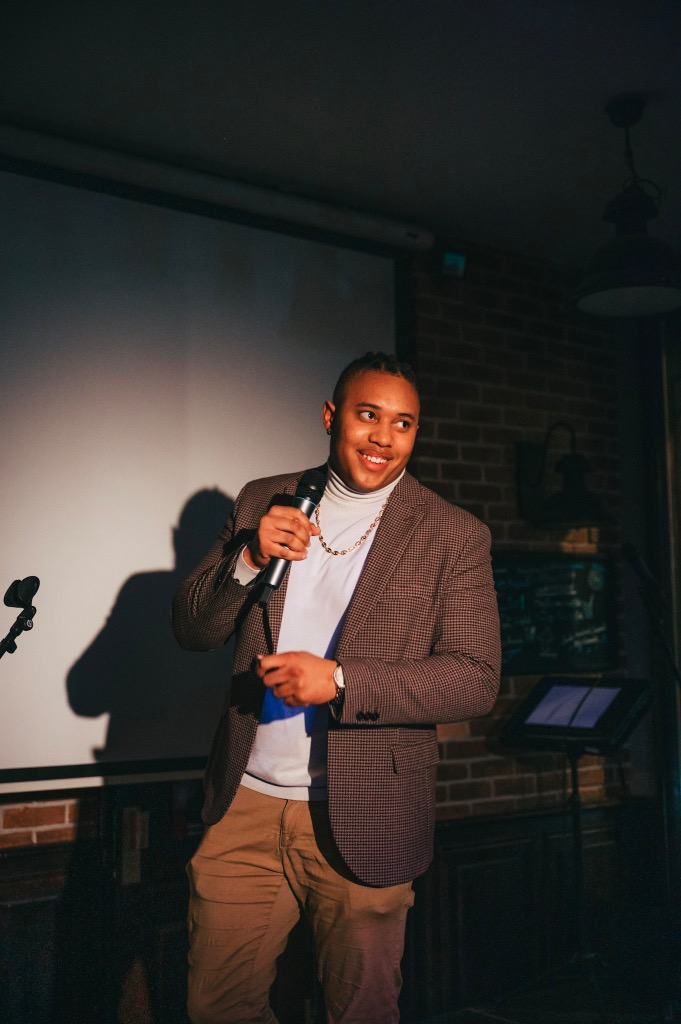
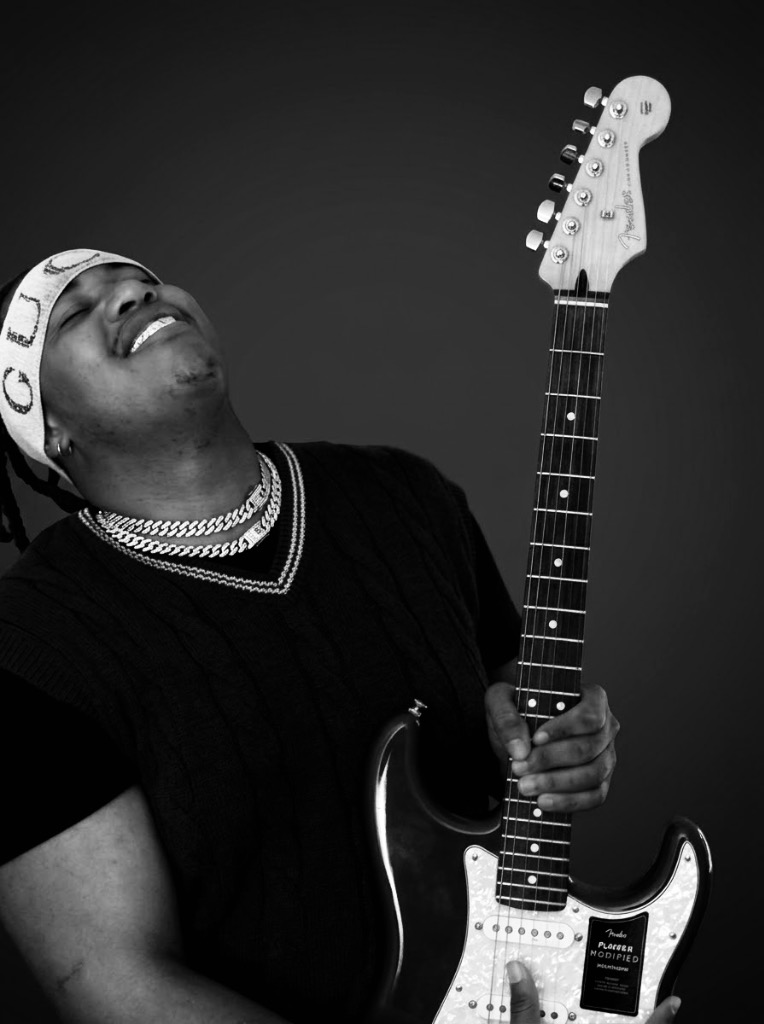
feat: Add iconic Fender Stratocaster portrait & streamline parent-friendly copy

diff --git a/index.html b/index.html
@@ -266,7 +266,7 @@
                 </a>
                 <a href="#candidature" class="px-6 py-4 rounded-xl font-bold font-mono text-sm bg-zinc-800/90 hover:bg-zinc-700 text-zinc-200 border border-zinc-700 transition-all flex items-center justify-center gap-2 text-center">
                   <svg class="w-4 h-4 stroke-current fill-none text-brand-orange" stroke-width="2" viewBox="0 0 24 24"><path stroke-linecap="round" stroke-linejoin="round" d="M9 12h6m-6 4h6m2 5H7a2 2 0 01-2-2V5a2 2 0 012-2h5.586a1 1 0 01.707.293l5.414 5.414a1 1 0 01.293.707V19a2 2 0 01-2 2z"/></svg>
-                  <span>Préparer mon dossier en ligne</span>
+                  <span>Réserver un essai gratuit</span>
                 </a>
               </div>
               <div class="p-3.5 rounded-xl bg-amber-500/15 border border-amber-500/30 text-xs font-mono text-amber-200 flex items-start gap-2.5">
@@ -275,23 +275,23 @@
               </div>
             </div>
 
-            <!-- LIGNE TECHNIQUE D'AUTORITÉ (ÉPURÉE, FAÇON HARDWARE STUDIO) -->
+            <!-- LIGNE DE RÉASSURANCE POUR LES PARENTS -->
             <div class="grid grid-cols-2 sm:grid-cols-4 gap-4 pt-6 border-t border-zinc-800 text-xs font-mono">
               <div class="border-l-2 border-brand-magenta pl-3">
                 <span class="text-white font-black block text-base">14 ANS</span>
-                <span class="text-zinc-400 text-[11px] block">DÉVOTION & GUITARE</span>
+                <span class="text-zinc-400 text-[11px] block">D'EXPÉRIENCE GUITARE</span>
               </div>
               <div class="border-l-2 border-brand-orange pl-3">
-                <span class="text-white font-black block text-base">NASHVILLE</span>
-                <span class="text-zinc-400 text-[11px] block">PRODS VENDUES USA</span>
+                <span class="text-white font-black block text-base">STUDIO PRO</span>
+                <span class="text-zinc-400 text-[11px] block">PROD & EXPÉRIENCE USA</span>
               </div>
               <div class="border-l-2 border-brand-cyan pl-3">
                 <span class="text-white font-black block text-base">SPOTIFY</span>
-                <span class="text-zinc-400 text-[11px] block">SORTIE TRIMESTRIELLE</span>
+                <span class="text-zinc-400 text-[11px] block">1 TITRE / TRIMESTRE</span>
               </div>
               <div class="border-l-2 border-brand-purple pl-3">
                 <span class="text-white font-black block text-base">12 PLACES</span>
-                <span class="text-zinc-400 text-[11px] block">MAX / TRIMESTRE</span>
+                <span class="text-zinc-400 text-[11px] block">MAX PAR TRIMESTRE</span>
               </div>
             </div>
           </div>
@@ -300,19 +300,19 @@
           <div class="lg:col-span-5">
             <div class="glass-card p-6 rounded-3xl border border-zinc-700 bg-brand-surface relative shadow-2xl">
               
-              <!-- Bandeau DAW Supérieur -->
+              <!-- Bandeau Supérieur -->
               <div class="flex items-center justify-between border-b border-zinc-800 pb-3 mb-4 text-xs font-mono">
                 <div class="flex items-center gap-2">
                   <span class="w-2.5 h-2.5 rounded-full bg-emerald-400 animate-pulse"></span>
                   <span class="text-zinc-200 font-bold uppercase tracking-wider">Studio Pompignane</span>
                 </div>
-                <span class="text-brand-magenta font-bold">● REC LIVE 24-bit</span>
+                <span class="text-brand-magenta font-bold">● Inscriptions ouvertes</span>
               </div>
 
               <!-- Cadre Média / Artiste Studio Alexandre Herbin -->
               <div class="aspect-[4/5] sm:aspect-[3/4] rounded-2xl bg-zinc-950 border border-zinc-700/80 flex flex-col justify-between relative overflow-hidden group shadow-2xl">
                 
-                <!-- Vraie Photo Alexandre Herbin avec Guitare Fender en Studio -->
+                <!-- Vraie Photo Alexandre Herbin -->
                 <img src="assets/alexandre.jpg" alt="Alexandre Herbin - Professeur de Guitare et Producteur au studio de la Pompignane" class="w-full h-full object-cover object-top absolute inset-0 z-0 transition-transform duration-700 group-hover:scale-105">
 
                 <!-- Gradient Scrim subtil haut et bas pour lisibilité maximale sans cacher le visage ou la guitare -->
@@ -322,7 +322,7 @@
                 <div class="flex justify-between items-start z-20 p-4">
                   <span class="px-3 py-1.5 rounded-full bg-black/80 backdrop-blur-md border border-white/20 text-xs font-mono text-white font-bold flex items-center gap-2 shadow-lg">
                     <span class="w-2 h-2 rounded-full bg-emerald-400 animate-pulse"></span>
-                    Alexandre Herbin (Alex)
+                    Alexandre Herbin
                   </span>
                   <span class="px-3 py-1.5 rounded-full bg-brand-magenta/90 text-white border border-brand-magenta text-xs font-mono font-bold shadow-lg">
                     Un passionné avant tout
@@ -333,13 +333,13 @@
                 <div class="z-20 p-4 space-y-3">
                   <div>
                     <span class="text-xs font-mono font-bold text-brand-orange uppercase tracking-wider block">
-                      Directeur Musical & Studio
+                      Fondateur & Pédagogue
                     </span>
                     <h3 class="font-display font-black text-2xl text-white">
                       Alexandre Herbin
                     </h3>
                     <p class="text-xs text-zinc-300 font-mono">
-                      Guitariste • Beatmaker international • Quartier Pompignane
+                      Guitariste • Producteur de musique • Montpellier
                     </p>
                   </div>
 
@@ -347,7 +347,7 @@
                   <div class="flex items-center justify-between bg-black/80 backdrop-blur-md rounded-xl p-2.5 border border-zinc-700 text-xs font-mono">
                     <span class="text-zinc-200 flex items-center gap-2">
                       <svg class="w-3.5 h-3.5 fill-current text-brand-magenta shrink-0" viewBox="0 0 24 24"><path d="M8 5v14l11-7z"/></svg>
-                      <span>Beat Nashville 808</span>
+                      <span>Production d'Alexandre</span>
                     </span>
                     <a href="https://youtu.be/925-MVwqzmA?list=RD925-MVwqzmA" target="_blank" rel="noopener noreferrer" class="text-brand-cyan hover:underline font-bold text-[11px]">
                       Écouter sur YouTube &rarr;
@@ -647,13 +647,13 @@
       <div class="max-w-6xl mx-auto px-4 sm:px-6">
         <div class="text-center max-w-2xl mx-auto mb-14">
           <span class="text-xs font-mono font-bold uppercase tracking-wider text-brand-orange block mb-2">
-            La Preuve par les Oreilles
+            La Preuve par le Son
           </span>
           <h2 class="font-display font-extrabold text-3xl sm:text-5xl text-white tracking-tight">
-            Entendez la différence en direct.
+            Entendez la différence.
           </h2>
           <p class="text-zinc-300 text-sm sm:text-base mt-4">
-            Un enregistrement au smartphone n'a rien à voir avec un titre mixé et spatialisé au studio. Comparez les deux modes instantanément :
+            Voici ce qu'un élève enregistre seul sur son smartphone... et ce qu'on arrive à créer ensemble une fois passé en studio :
           </p>
         </div>
 
@@ -663,17 +663,17 @@
             <div class="flex items-center gap-2 w-full sm:w-auto">
               <button id="mode-smartphone-btn" class="flex-1 sm:flex-none px-4 py-2.5 rounded-xl text-xs font-mono uppercase font-semibold transition-all border border-transparent text-zinc-400 hover:text-white flex items-center justify-center gap-1.5">
                 <svg class="w-3.5 h-3.5 stroke-current fill-none" stroke-width="2" viewBox="0 0 24 24"><rect x="5" y="2" width="14" height="20" rx="2" ry="2"/><line x1="12" y1="18" x2="12.01" y2="18"/></svg>
-                <span>Prise Brute (Raw • To The Star)</span>
+                <span>📱 Enregistré au smartphone</span>
               </button>
               <button id="mode-studio-btn" class="flex-1 sm:flex-none px-4 py-2.5 rounded-xl text-xs font-mono uppercase font-semibold transition-all bg-gradient-to-r from-pink-600 to-orange-500 text-white shadow-lg flex items-center justify-center gap-1.5">
                 <svg class="w-3.5 h-3.5 fill-current text-amber-300" viewBox="0 0 24 24"><path d="M12 2l2.4 7.2h7.6l-6.1 4.5 2.3 7.1-6.2-4.5-6.2 4.5 2.3-7.1-6.1-4.5h7.6z"/></svg>
-                <span>Mix Studio Pro (Flying Away • Master)</span>
+                <span>🎧 Version Studio Pro</span>
               </button>
             </div>
             
             <span id="audio-current-mode-badge" class="text-xs px-3 py-1.5 rounded-full bg-gradient-to-r from-pink-500/20 to-orange-500/20 text-pink-300 border border-pink-500/40 font-mono inline-flex items-center gap-1.5">
               <svg class="w-3.5 h-3.5 fill-current text-pink-400" viewBox="0 0 24 24"><path d="M12 2l2.4 7.2h7.6l-6.1 4.5 2.3 7.1-6.2-4.5-6.2 4.5 2.3-7.1-6.1-4.5h7.6z"/></svg>
-              <span><strong>Mix Studio Pro</strong> (Flying Away • Master blvckbeats808)</span>
+              <span><strong>Résultat Studio Pro</strong> (Flying Away • Spotify)</span>
             </span>
           </div>
 
@@ -681,7 +681,7 @@
           <div class="bg-black/60 rounded-2xl p-4 border border-zinc-800/80 mb-4 flex flex-col items-center justify-center relative overflow-hidden">
             <canvas id="audio-visualizer-canvas" width="600" height="120" class="w-full h-28"></canvas>
             <div class="text-[10px] font-mono text-zinc-400 uppercase tracking-widest mt-2">
-              Analyseur de Spectre Fréquentiel en Temps Réel
+              Visualiseur en direct • Touchez un mode pour écouter
             </div>
           </div>
 
@@ -695,7 +695,7 @@
           <div class="mb-5 bg-black/40 p-3 rounded-2xl border border-zinc-800">
             <div class="flex items-center justify-between text-xs font-mono text-zinc-300 mb-1.5 px-1">
               <span id="audio-time-current" class="text-zinc-400">0:00</span>
-              <span id="audio-track-title" class="font-bold text-white truncate max-w-[200px] sm:max-w-xs">Flying Away (Master)</span>
+              <span id="audio-track-title" class="font-bold text-white truncate max-w-[200px] sm:max-w-xs">Flying Away (Version Studio Pro)</span>
               <span id="audio-time-duration" class="text-zinc-400">0:16</span>
             </div>
             <div id="audio-progress-container" class="w-full bg-zinc-800 rounded-full h-2.5 cursor-pointer relative overflow-hidden">
@@ -709,11 +709,11 @@
               <span id="audio-play-icon" class="text-base flex items-center">
                 <svg class="w-3.5 h-3.5 fill-current" viewBox="0 0 24 24"><path d="M8 5v14l11-7z"/></svg>
               </span>
-              <span id="audio-play-text">Écouter le comparatif sonore</span>
+              <span id="audio-play-text">Écouter la différence</span>
             </button>
             <span class="text-xs text-zinc-400 text-center sm:text-right font-light flex items-center justify-center sm:justify-end gap-1.5">
               <svg class="w-4 h-4 stroke-current fill-none text-amber-400 shrink-0" stroke-width="2" viewBox="0 0 24 24"><path stroke-linecap="round" stroke-linejoin="round" d="M9.663 17h4.673M12 3v1m6.364 1.636l-.707.707M21 12h-1M4 12H3m3.343-5.657l-.707-.707m2.828 9.9a5 5 0 117.072 0l-.548.547A3.374 3.374 0 0014 18.469V19a2 2 0 11-4 0v-.531c0-.895-.356-1.754-.988-2.386l-.548-.547z"/></svg>
-              <span>Cliquez sur le lecteur puis basculez entre les modes Smartphone et Studio.</span>
+              <span>Appuyez sur un bouton pour basculer instantanément entre le son smartphone et le son studio.</span>
             </span>
           </div>
         </div>
@@ -781,7 +781,7 @@
             </div>
 
             <a href="#candidature" class="w-full py-4 rounded-xl font-extrabold uppercase tracking-wider text-sm bg-zinc-800 hover:bg-zinc-700 border border-zinc-600 text-white text-center transition-all block shadow-lg">
-              Candidater pour le Studio
+              Réserver un essai au Studio
             </a>
           </div>
 
@@ -865,7 +865,7 @@
             <h2 class="font-display font-black text-3xl sm:text-5xl text-white tracking-tight mb-6">
               Alexandre Herbin <br>
               <span class="bg-gradient-to-r from-brand-orange to-brand-magenta bg-clip-text text-transparent">
-                Musicien Passionné, Guitariste & Beatmaker International.
+                Guitariste, Producteur & Pédagogue Passionné.
               </span>
             </h2>
 
@@ -882,13 +882,13 @@
                 Âgé de <strong class="text-white font-bold">26 ans</strong> et pratiquant la guitare depuis plus de <strong class="text-white font-bold">14 ans</strong>, Alexandre est un véritable passionné de musique vivante. Il refuse les méthodes académiques rigides pour privilégier la connexion émotionnelle avec l'instrument, la musicalité et la maîtrise du son studio.
               </p>
               <p>
-                Son univers musical fait le pont entre les racines vivantes de la guitare et les productions urbaines actuelles : le <strong class="text-amber-400 font-bold">Blues</strong> pour le toucher et l'expressivité, le <strong class="text-red-400 font-bold">Rock</strong> pour l'énergie des riffs, la <strong class="text-pink-400 font-bold">Pop</strong> pour le sens des mélodies accrocheuses, et le <strong class="text-brand-magenta font-bold">Rap</strong>, le <strong class="text-brand-cyan font-bold">Hip-Hop</strong> et le <strong class="text-purple-400 font-bold">R&B</strong> pour la modernité rythmique, les basses 808 et la spatialisation studio.
+                Son univers musical fait le pont entre les racines vivantes de la guitare et les productions modernes : le <strong class="text-amber-400 font-bold">Blues</strong> pour le toucher et l'expressivité, le <strong class="text-red-400 font-bold">Rock</strong> pour l'énergie des riffs, la <strong class="text-pink-400 font-bold">Pop</strong> pour le sens des mélodies accrocheuses, et le <strong class="text-brand-magenta font-bold">Rap</strong>, le <strong class="text-brand-cyan font-bold">Hip-Hop</strong> et le <strong class="text-purple-400 font-bold">R&B</strong> pour la modernité rythmique et les grooves actuels.
               </p>
               <p>
-                Actif sous le pseudonyme de producteur <strong class="text-brand-magenta font-bold">blvckbeats808</strong> et artiste sous le nom de <strong class="text-brand-orange font-bold">Herbo</strong> sur Spotify, ses compositions instrumentales et beats de guitare voyagent et sont vendus à l'international — notamment auprès d'artistes et rappeurs aux <strong class="text-white font-bold">États-Unis (Nashville, Tennessee)</strong> et en Europe.
+                Actif sous le pseudonyme de producteur <strong class="text-brand-magenta font-bold">blvckbeats808</strong> et artiste sous le nom de <strong class="text-brand-orange font-bold">Herbo</strong> sur Spotify, ses compositions instrumentales et beats de guitare voyagent et sont vendus à l'international — notamment auprès d'artistes aux <strong class="text-white font-bold">États-Unis (Nashville, Tennessee)</strong> et en Europe.
               </p>
               <p>
-                Au Labo des Cordes, il supervise personnellement chaque étape pédagogique et prend en charge le mixage studio de chaque élève avec les mêmes convertisseurs, compresseurs et exigences acoustiques que pour ses projets diffusés outre-Atlantique.
+                Au Labo des Cordes, Alexandre accompagne personnellement chaque jeune avec bienveillance et enthousiasme. Il met tout son savoir-faire de musicien et producteur au service de leurs morceaux pour leur offrir un résultat dont ils seront fiers toute leur vie.
               </p>
 
               <!-- Badges des Styles Musicaux Enseignés -->
@@ -1006,7 +1006,7 @@
                 <!-- Badge haut -->
                 <div class="flex justify-between items-start z-20 p-4">
                   <span class="px-3.5 py-1.5 rounded-full bg-black/80 backdrop-blur-md border border-white/20 text-xs font-mono text-white font-bold shadow-lg">
-                    Fondateur & Lead Producer
+                    Fondateur & Pédagogue
                   </span>
                   <span class="px-3.5 py-1.5 rounded-full bg-brand-orange/90 text-white font-mono text-xs font-bold shadow-md">
                     Studio Pompignane
@@ -1026,8 +1026,8 @@
                       <span class="text-[11px] text-zinc-300">Dynamisme & Pédagogie</span>
                     </div>
                     <div class="bg-black/70 backdrop-blur-sm p-2.5 rounded-xl border border-zinc-800">
-                      <span class="text-brand-orange font-black block text-sm">100% Pro Studio</span>
-                      <span class="text-[11px] text-zinc-300">Mix & Sortie Spotify</span>
+                      <span class="text-brand-orange font-black block text-sm">Sortie Spotify Incluse</span>
+                      <span class="text-[11px] text-zinc-300">Titre produit en studio</span>
                     </div>
                   </div>
                 </div>
@@ -1220,13 +1220,13 @@
       <div class="max-w-4xl mx-auto px-4 sm:px-6">
         <div class="text-center max-w-2xl mx-auto mb-12">
           <span class="text-sm font-mono font-bold uppercase tracking-wider text-brand-magenta block mb-2">
-            Admissions Saisonnière
+            Séance d'Essai de 30 min Offerte
           </span>
           <h2 class="font-display font-black text-3xl sm:text-5xl text-white tracking-tight">
-            Déposer une candidature.
+            Réserver une séance d'essai.
           </h2>
           <p class="text-zinc-200 text-base sm:text-lg mt-4 font-normal leading-relaxed">
-            Remplissez ce questionnaire pour préparer votre appel, ou contactez-nous directement par téléphone pour bloquer votre créneau.
+            Remplissez ces quelques informations pour nous présenter votre enfant, ou appelez-nous directement au <a href="tel:0616392658" class="text-brand-magenta font-bold underline">06 16 39 26 58</a> pour choisir un créneau ensemble.
           </p>
         </div>
 
@@ -1486,7 +1486,7 @@
               </button>
 
               <button id="funnel-submit-btn" type="button" class="px-8 py-4 rounded-xl font-black font-mono text-sm uppercase tracking-wider bg-gradient-to-r from-brand-magenta via-brand-orange to-brand-purple text-white hover:scale-105 transition-all shadow-xl hidden box-glow-magenta">
-                Transmettre & Appeler pour réserver &rarr;
+                Valider ma demande d'essai &rarr;
               </button>
             </div>
           </div>

diff --git a/js/audio-demo.js b/js/audio-demo.js
@@ -13,17 +13,17 @@ class AudioComparisonPlayer {
 
     this.tracks = {
       smartphone: {
-        title: 'To The Star (Prise Brute • Raw)',
+        title: 'To The Star (Enregistré au smartphone)',
         src: '/assets/audio/smartphone-raw.m4a',
         fallback: '/assets/audio/smartphone-raw.wav',
-        badgeHtml: '<svg class="w-3.5 h-3.5 stroke-current fill-none shrink-0" stroke-width="2" viewBox="0 0 24 24"><rect x="5" y="2" width="14" height="20" rx="2" ry="2"/><line x1="12" y1="18" x2="12.01" y2="18"/></svg><span><strong>Prise Brute</strong> (To The Star • Raw)</span>',
+        badgeHtml: '<svg class="w-3.5 h-3.5 stroke-current fill-none shrink-0" stroke-width="2" viewBox="0 0 24 24"><rect x="5" y="2" width="14" height="20" rx="2" ry="2"/><line x1="12" y1="18" x2="12.01" y2="18"/></svg><span><strong>Son Smartphone</strong> (To The Star)</span>',
         badgeClass: 'text-xs px-3 py-1.5 rounded-full bg-zinc-800/80 text-zinc-300 border border-zinc-700 font-mono inline-flex items-center gap-1.5'
       },
       studio: {
-        title: 'Flying Away (Mix & Master • blvckbeats808)',
+        title: 'Flying Away (Version Studio Pro • Prêt pour Spotify)',
         src: '/assets/audio/studio-final.m4a',
         fallback: '/assets/audio/studio-final.wav',
-        badgeHtml: '<svg class="w-3.5 h-3.5 fill-current text-pink-400 shrink-0" viewBox="0 0 24 24"><path d="M12 2l2.4 7.2h7.6l-6.1 4.5 2.3 7.1-6.2-4.5-6.2 4.5 2.3-7.1-6.1-4.5h7.6z"/></svg><span><strong>Mix Studio Pro</strong> (Flying Away • Master)</span>',
+        badgeHtml: '<svg class="w-3.5 h-3.5 fill-current text-pink-400 shrink-0" viewBox="0 0 24 24"><path d="M12 2l2.4 7.2h7.6l-6.1 4.5 2.3 7.1-6.2-4.5-6.2 4.5 2.3-7.1-6.1-4.5h7.6z"/></svg><span><strong>Résultat Studio Pro</strong> (Flying Away • Spotify)</span>',
         badgeClass: 'text-xs px-3 py-1.5 rounded-full bg-gradient-to-r from-pink-500/20 to-orange-500/20 text-pink-300 border border-pink-500/40 font-mono inline-flex items-center gap-1.5'
       }
     };
@@ -294,7 +294,7 @@ class AudioComparisonPlayer {
       }
     }
     if (this.playText) {
-      this.playText.textContent = playing ? 'Mettre en pause' : 'Écouter le comparatif sonore';
+      this.playText.textContent = playing ? 'Mettre en pause' : 'Écouter la différence';
     }
   }
 

diff --git a/public/js/audio-demo.js b/public/js/audio-demo.js
@@ -13,17 +13,17 @@ class AudioComparisonPlayer {
 
     this.tracks = {
       smartphone: {
-        title: 'To The Star (Prise Brute • Raw)',
+        title: 'To The Star (Enregistré au smartphone)',
         src: '/assets/audio/smartphone-raw.m4a',
         fallback: '/assets/audio/smartphone-raw.wav',
-        badgeHtml: '<svg class="w-3.5 h-3.5 stroke-current fill-none shrink-0" stroke-width="2" viewBox="0 0 24 24"><rect x="5" y="2" width="14" height="20" rx="2" ry="2"/><line x1="12" y1="18" x2="12.01" y2="18"/></svg><span><strong>Prise Brute</strong> (To The Star • Raw)</span>',
+        badgeHtml: '<svg class="w-3.5 h-3.5 stroke-current fill-none shrink-0" stroke-width="2" viewBox="0 0 24 24"><rect x="5" y="2" width="14" height="20" rx="2" ry="2"/><line x1="12" y1="18" x2="12.01" y2="18"/></svg><span><strong>Son Smartphone</strong> (To The Star)</span>',
         badgeClass: 'text-xs px-3 py-1.5 rounded-full bg-zinc-800/80 text-zinc-300 border border-zinc-700 font-mono inline-flex items-center gap-1.5'
       },
       studio: {
-        title: 'Flying Away (Mix & Master • blvckbeats808)',
+        title: 'Flying Away (Version Studio Pro • Prêt pour Spotify)',
         src: '/assets/audio/studio-final.m4a',
         fallback: '/assets/audio/studio-final.wav',
-        badgeHtml: '<svg class="w-3.5 h-3.5 fill-current text-pink-400 shrink-0" viewBox="0 0 24 24"><path d="M12 2l2.4 7.2h7.6l-6.1 4.5 2.3 7.1-6.2-4.5-6.2 4.5 2.3-7.1-6.1-4.5h7.6z"/></svg><span><strong>Mix Studio Pro</strong> (Flying Away • Master)</span>',
+        badgeHtml: '<svg class="w-3.5 h-3.5 fill-current text-pink-400 shrink-0" viewBox="0 0 24 24"><path d="M12 2l2.4 7.2h7.6l-6.1 4.5 2.3 7.1-6.2-4.5-6.2 4.5 2.3-7.1-6.1-4.5h7.6z"/></svg><span><strong>Résultat Studio Pro</strong> (Flying Away • Spotify)</span>',
         badgeClass: 'text-xs px-3 py-1.5 rounded-full bg-gradient-to-r from-pink-500/20 to-orange-500/20 text-pink-300 border border-pink-500/40 font-mono inline-flex items-center gap-1.5'
       }
     };
@@ -294,7 +294,7 @@ class AudioComparisonPlayer {
       }
     }
     if (this.playText) {
-      this.playText.textContent = playing ? 'Mettre en pause' : 'Écouter le comparatif sonore';
+      this.playText.textContent = playing ? 'Mettre en pause' : 'Écouter la différence';
     }
   }
 
